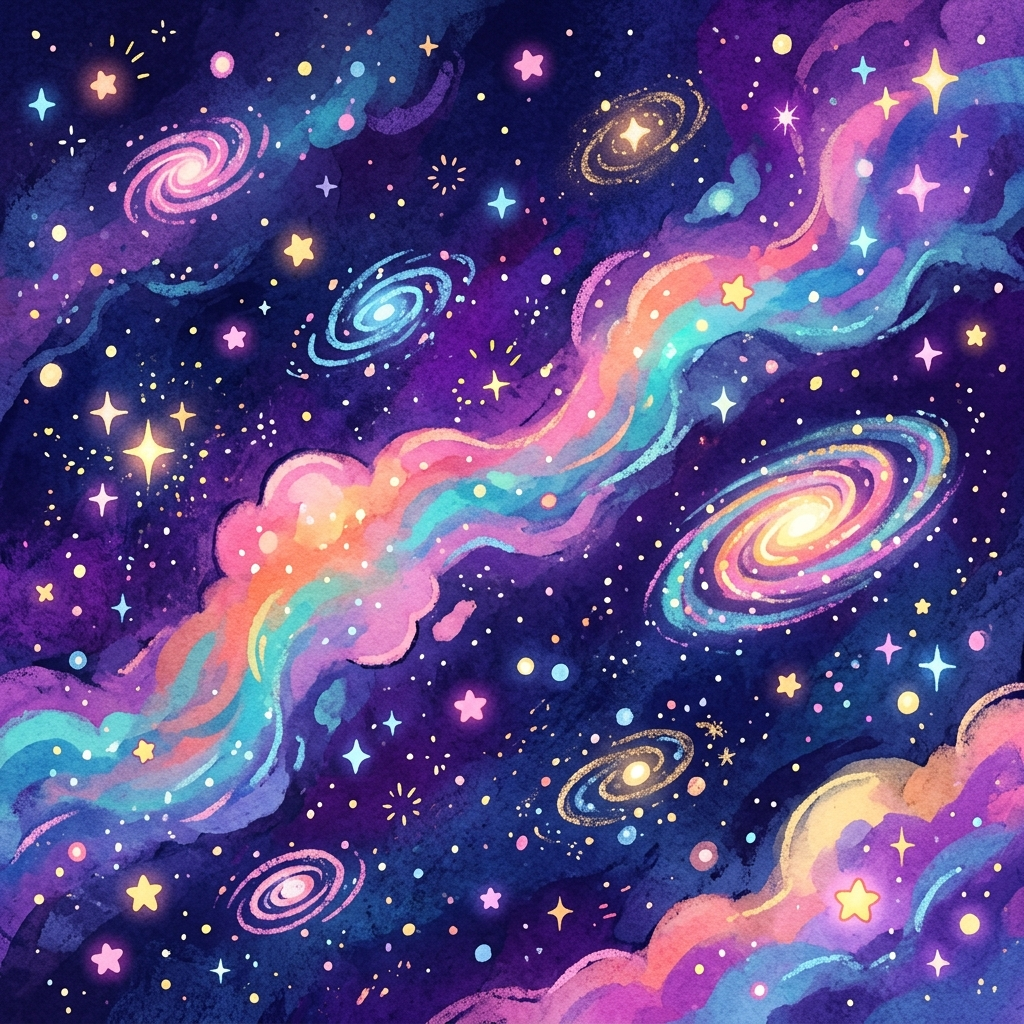
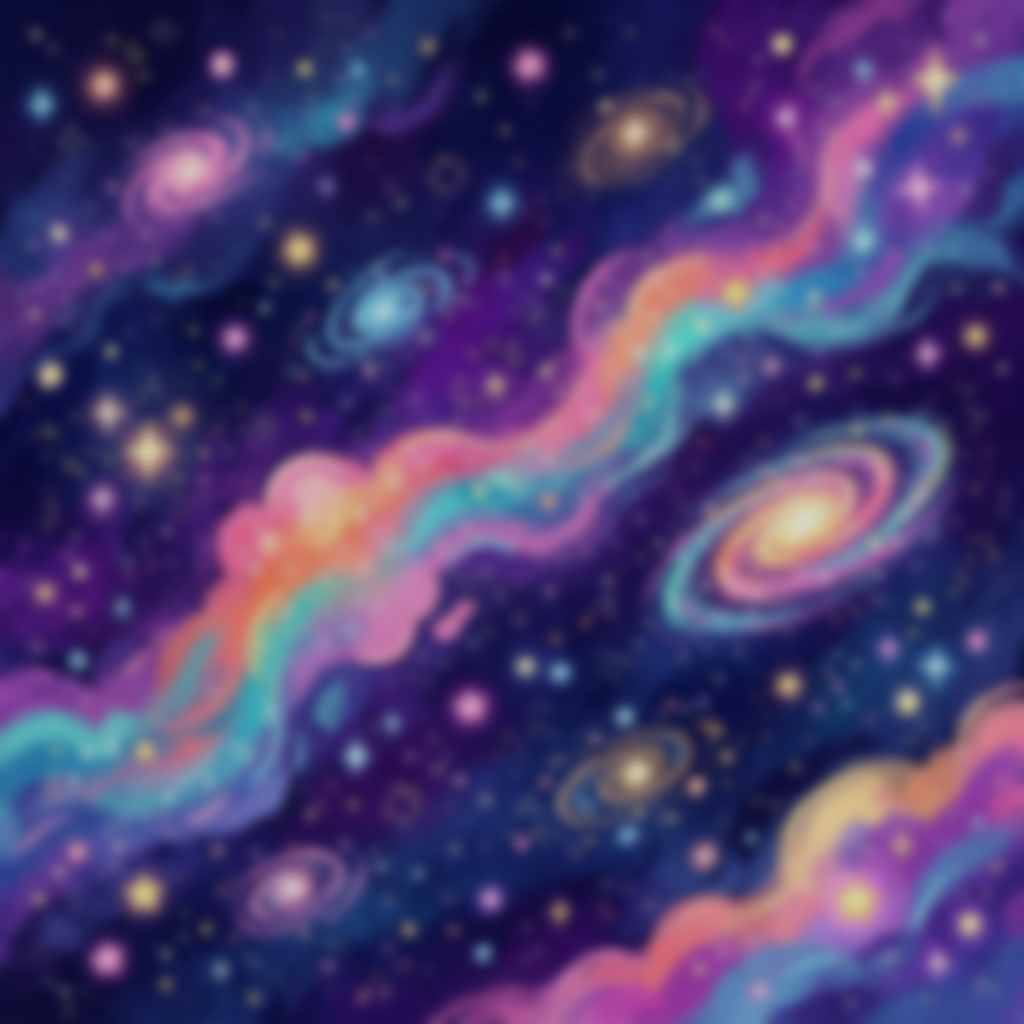
Pre-blur background image via Python and apply directly to body to avoid CSS pseudo-element resolution issues

diff --git a/style.css b/style.css
@@ -13,20 +13,9 @@ html, body {
     margin: 0;
     padding: 0;
     min-height: 100vh;
-    background-color: #080a15;
-}
-
-body::before {
-    content: "";
-    position: fixed;
-    top: -20px;
-    left: -20px;
-    right: -20px;
-    bottom: -20px;
     background-image: url('cosmic_space_background.png');
     background-size: cover;
     background-position: center;
-    filter: blur(5px) brightness(0.85);
-    z-index: -1;
-    pointer-events: none;
+    background-attachment: fixed;
+    background-color: #080a15;
 }